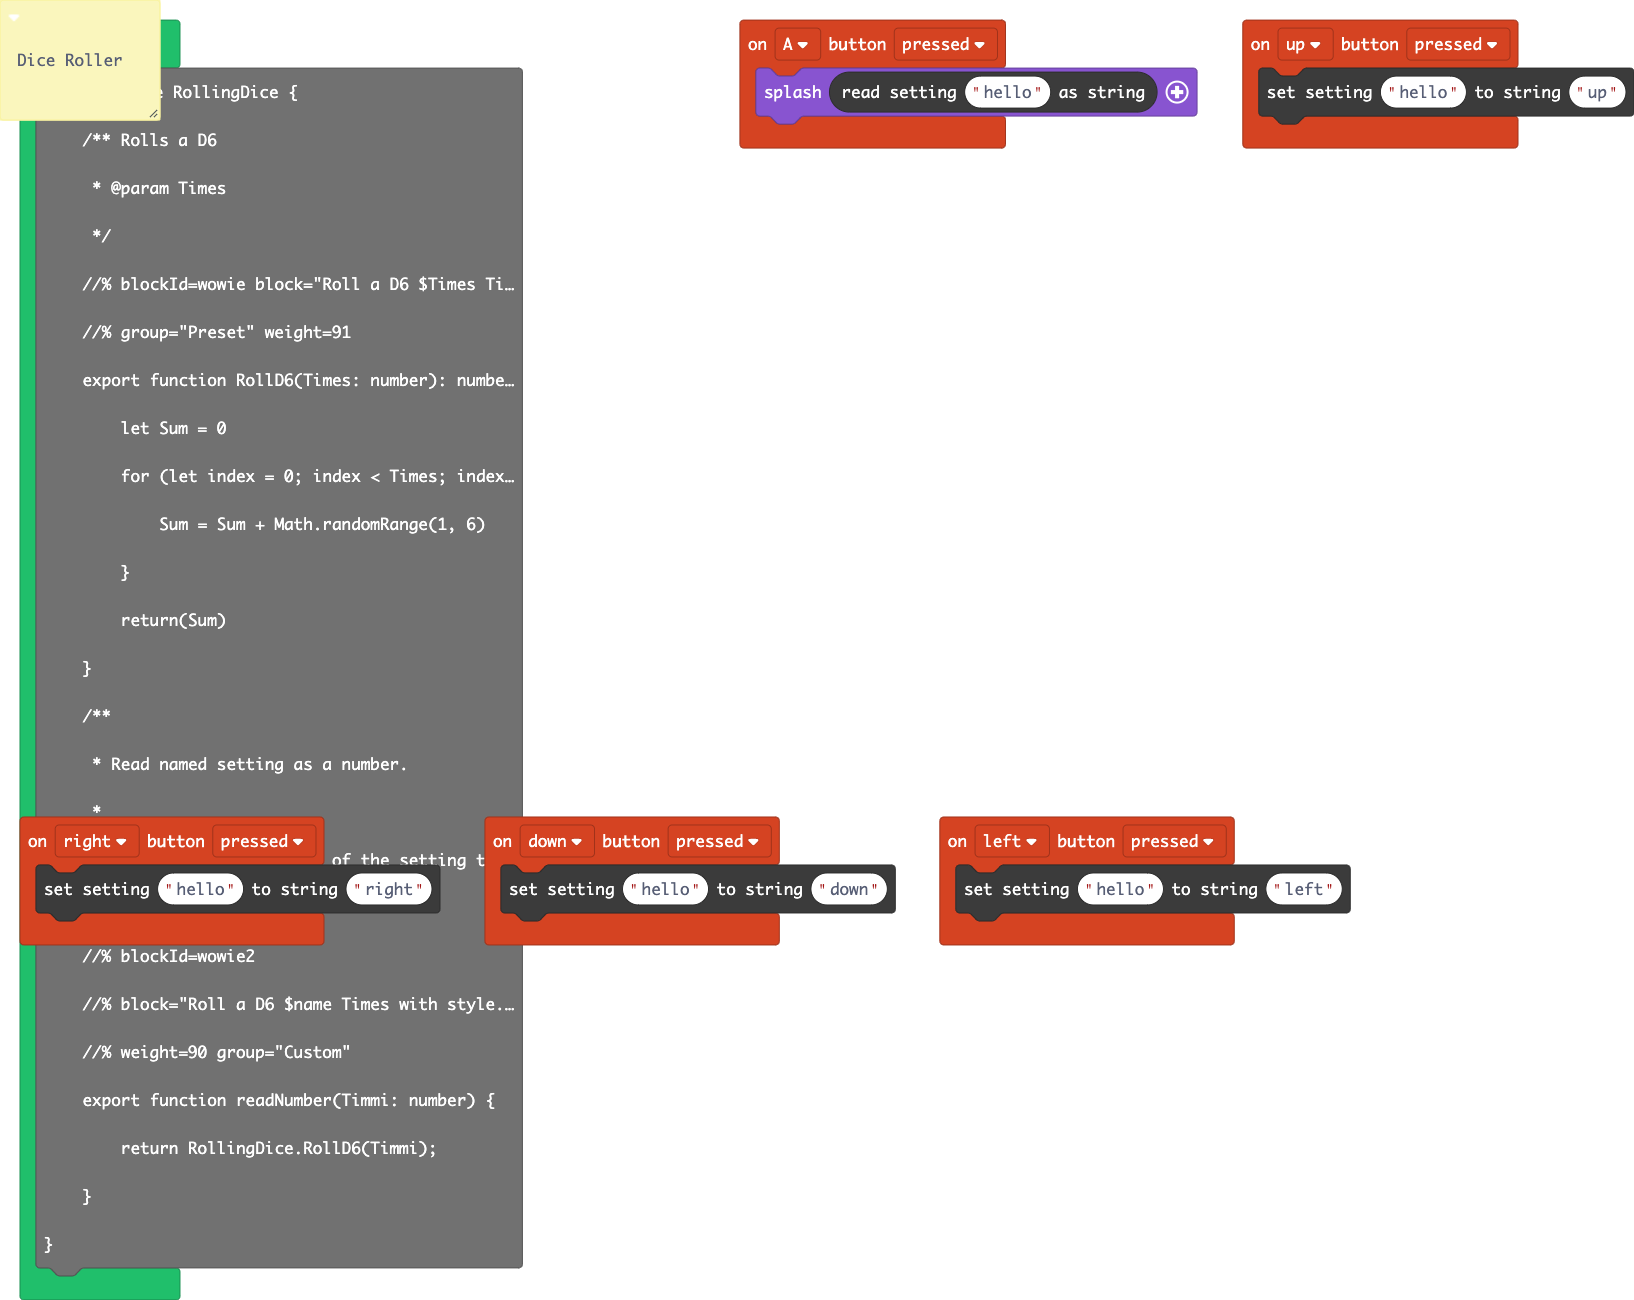
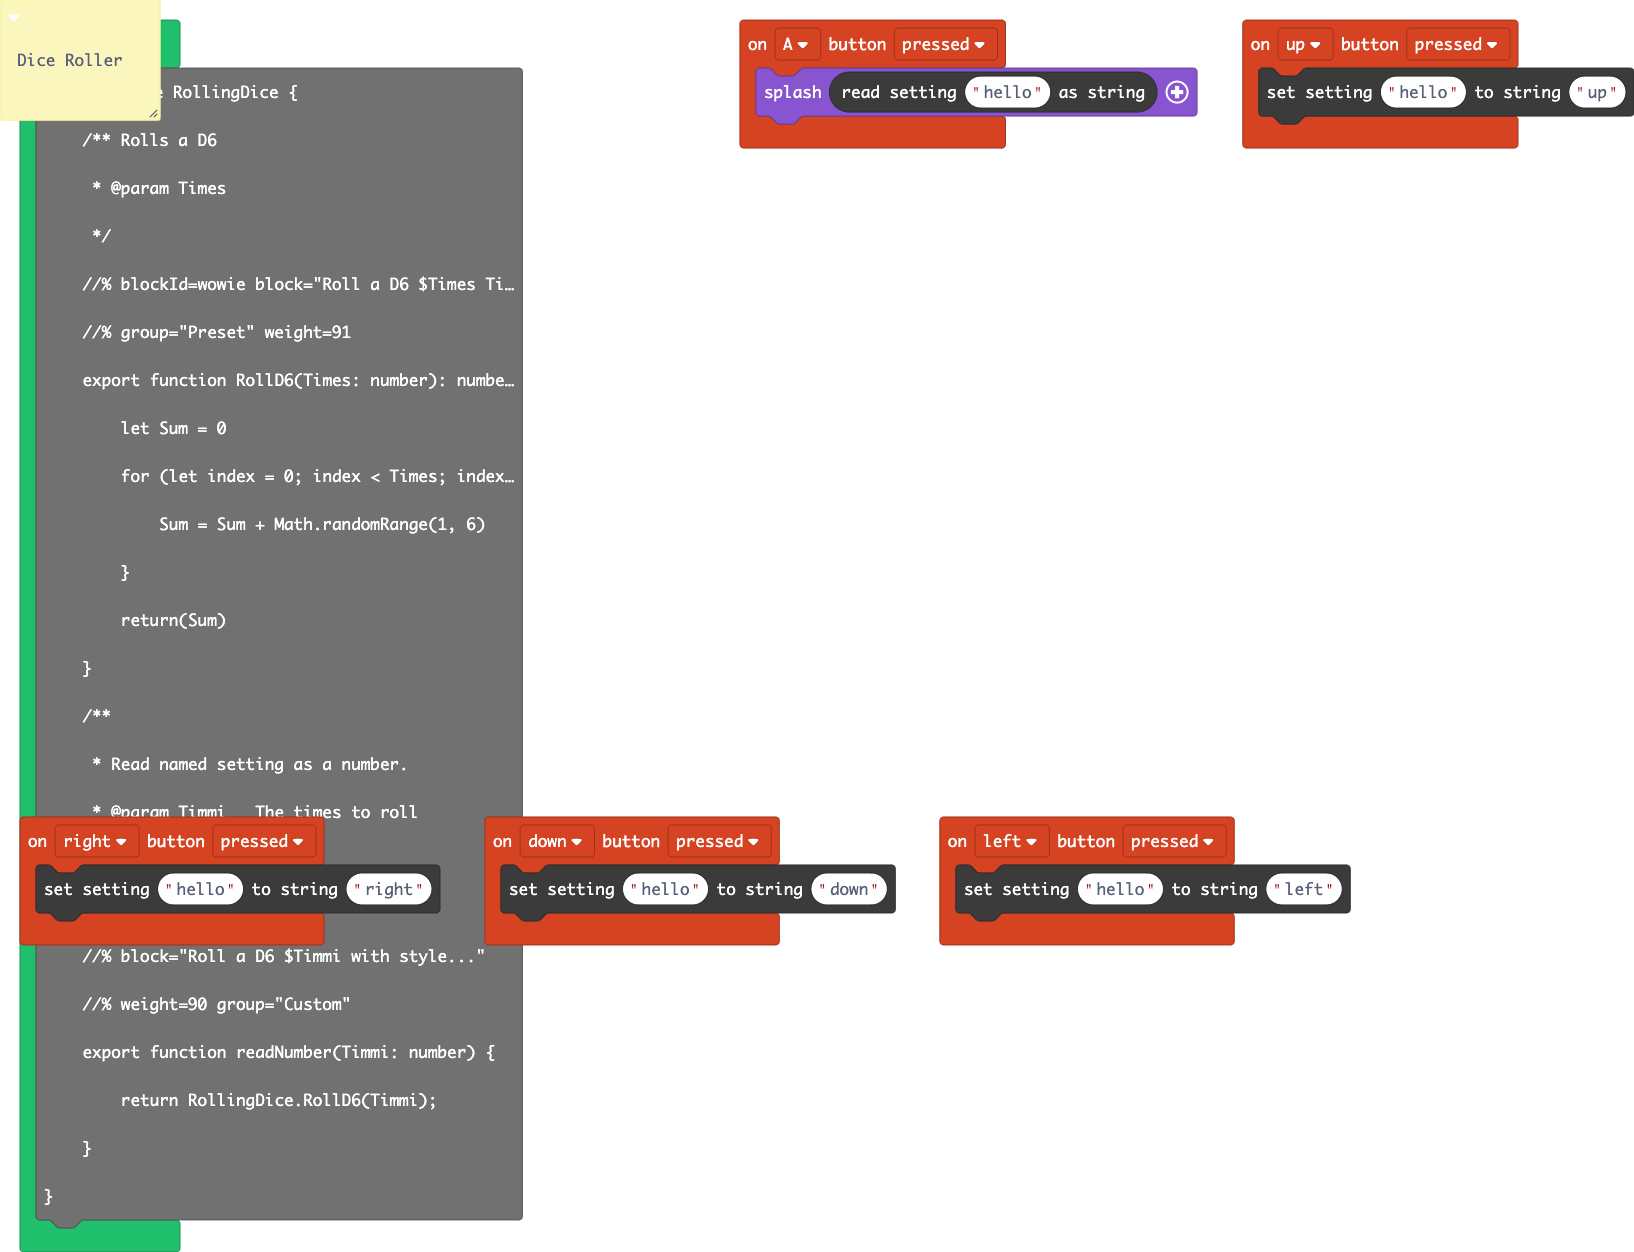
Update main.blocks, main.ts

diff --git a/main.ts b/main.ts
@@ -16,7 +16,7 @@ controller.up.onEvent(ControllerButtonEvent.Pressed, function () {
 /**
  * Dice Roller
  */
-// % color="#ad4800" icon="\u2684" block="Dice"
+//% color="#ad4800" icon="\u2684" block="Dice"
 namespace RollingDice {
     /** Rolls a D6
      * @param Times
@@ -37,7 +37,7 @@ namespace RollingDice {
     //% blockId=wowie2
     //% block="Roll a D6 $Timmi with style..."
     //% weight=90 group="Custom"
-    export function readNumber(Timmi: number) {
+    export function RollWithStyle(Timmi: number) {
         return RollingDice.RollD6(Timmi);
     }
 }
